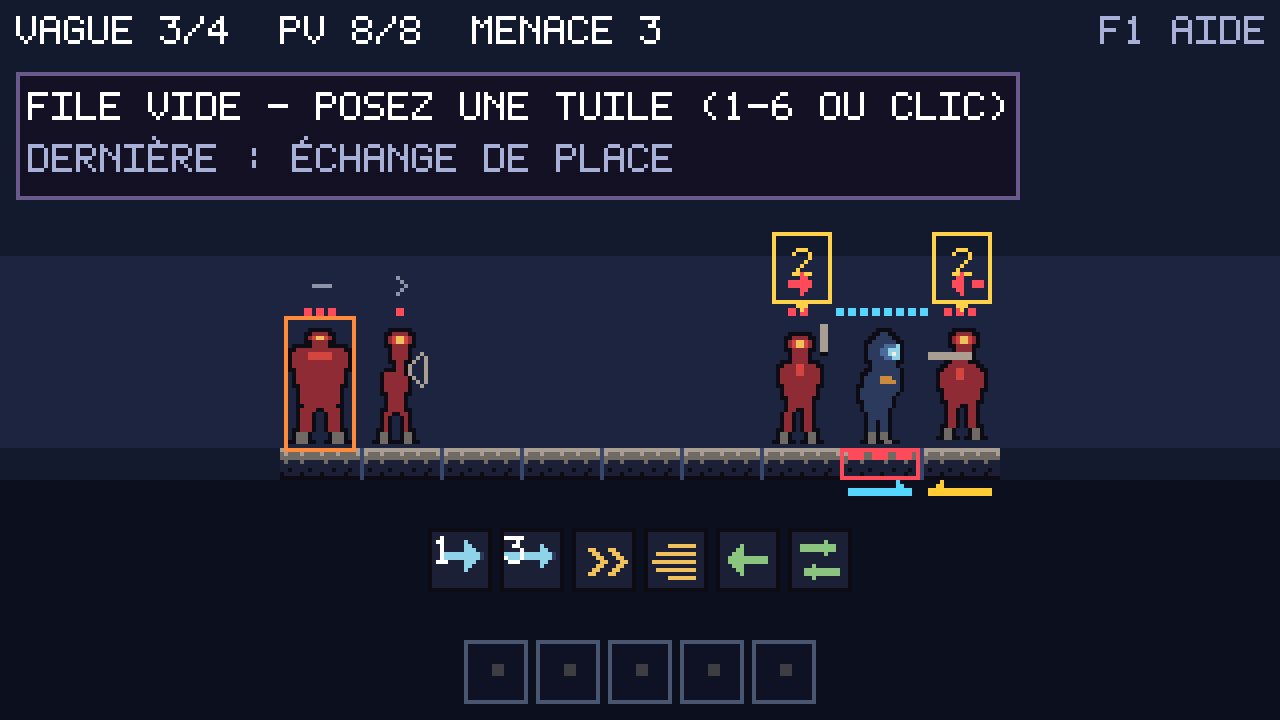
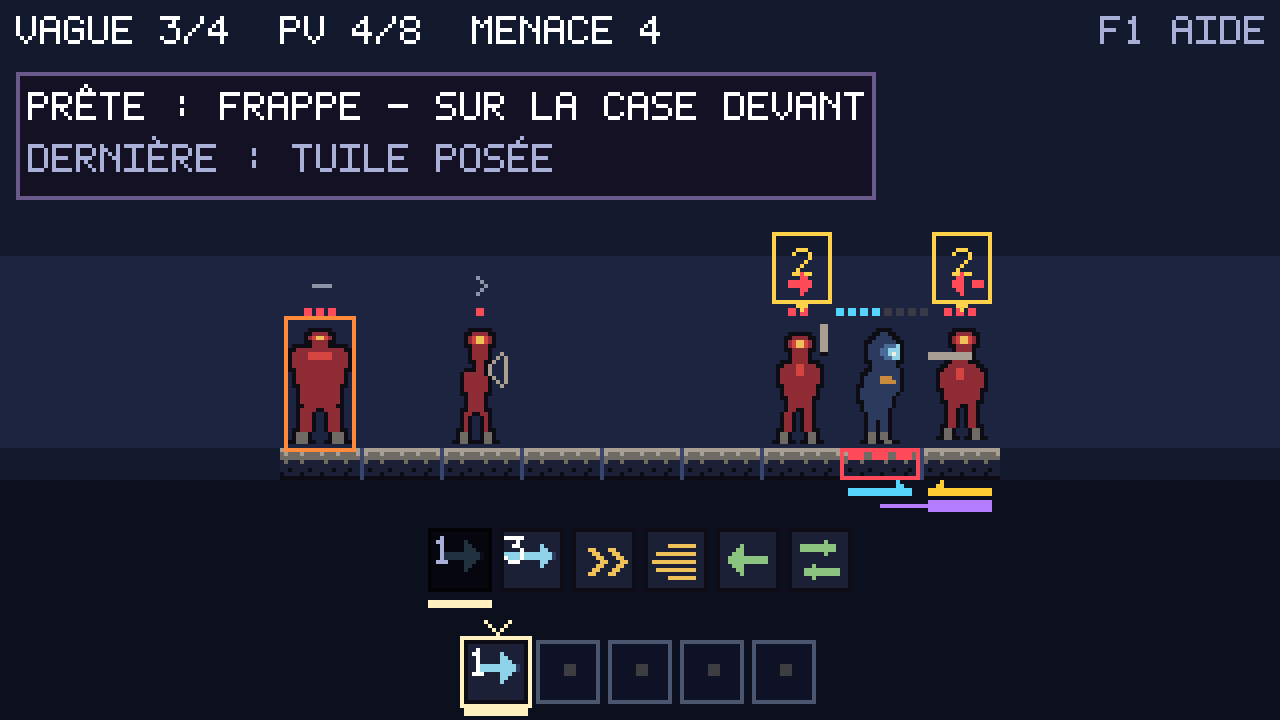
Deux nombres, deux unites, une seule question
En relisant ce que j'avais livre l'heure precedente, une contradiction : la
PLAQUE annonce des points, le BANDEAU comptait toujours des coups. Un lancier
seul affichait « 2 » sur sa plaque et « MENACE 1 » en haut de l'ecran — deux
nombres pour la meme question, dans deux unites, dont un que le joueur lit d'un
coup d'oeil pour decider s'il reste.

Le bandeau compte des points : c'est le prix qui decide, pas le nombre
d'assaillants. La planche le montre — MENACE 4 en haut, deux plaques a 2 en
bas, quatre points de vie au heros. La situation se lit d'un coup d'oeil.

LES CERCLES POSES AU SOL CONTINUENT DE COMPTER LES COUPS, et ce n'est pas une
incoherence oubliee : ils repondent a une autre question — combien de choses me
tombent dessus ici, et non combien cela me coute. Un cercle par point ferait un
halo illisible pour une seule charge. La raison est ecrite a cote du choix,
faute de quoi elle passerait pour un oubli.

Le test qui garde l'unite du bandeau assere d'abord que les deux comptes
DIFFERENT sur son montage : sans cela il serait vert avec l'ancienne version
comme avec la nouvelle. Mutation posee, elle mord.

Au passage, une coquille corrigee dans une legende du tableau de bord — « Le
carte » — que j'avais introduite en epissant cette phrase il y a une heure.

545 tests verts, 106 planches sur 15 ecrans.

diff --git a/progress.html b/progress.html
@@ -91,7 +91,7 @@
 <header>
   <h1>STARFALL</h1>
   <div class="sub">Tactique 2D au tour par tour · grille linéaire · file d'actions · libGDX / Java</div>
-  <div class="stamp">Dernière mise à jour : 6 août 2026 — <b style="color:var(--gold)">M1 à M10 revus et corrigés · 544 tests verts · 106 planches sur 15 &eacute;crans · la tranche est gagnable</b></div>
+  <div class="stamp">Dernière mise à jour : 6 août 2026 — <b style="color:var(--gold)">M1 à M10 revus et corrigés · 545 tests verts · 106 planches sur 15 &eacute;crans · la tranche est gagnable</b></div>
 </header>
 
 <div class="banner warn">
@@ -347,7 +347,7 @@
 
 <figure class="sheet">
   <img src="captures/actuel/plaques.png" alt="Starfall, deux plaques d&rsquo;intention dor&eacute;es">
-  <figcaption><b>Deux coups partent &agrave; la fin de ce tour, des deux c&ocirc;t&eacute;s.</b> Chaque ennemi qui a quelque chose &agrave; annoncer porte une <b>plaque</b> au-dessus de la t&ecirc;te, avec une pointe vers son propri&eacute;taire : sur une ligne serr&eacute;e, il ne faut pas avoir &agrave; deviner &agrave; qui appartient un glyphe. Le carte porte <b>2</b> : c&rsquo;est ce que chacun retire, total d&rsquo;une frappe compris. Le cadre est <b>dor&eacute;</b> parce que ces deux-l&agrave; jouent &agrave; la phase qui vient ; il serait rouge pour une menace annonc&eacute;e qui ne tombe pas encore. Les deux ennemis de gauche avancent seulement : pas de plaque, parce qu&rsquo;encadrer &laquo; rien &raquo; ajoute du bruit l&agrave; o&ugrave; il n&rsquo;y a pas de d&eacute;cision.</figcaption>
+  <figcaption><b>Deux coups partent &agrave; la fin de ce tour, des deux c&ocirc;t&eacute;s.</b> Chaque ennemi qui a quelque chose &agrave; annoncer porte une <b>plaque</b> au-dessus de la t&ecirc;te, avec une pointe vers son propri&eacute;taire : sur une ligne serr&eacute;e, il ne faut pas avoir &agrave; deviner &agrave; qui appartient un glyphe. La carte porte <b>2</b> : c&rsquo;est ce que chacun retire, total d&rsquo;une frappe compris &mdash; et le bandeau annonce <b>MENACE 4</b>, leur somme, dans la m&ecirc;me unit&eacute;. Le h&eacute;ros a quatre points : la situation se lit d&rsquo;un coup d&rsquo;&oelig;il. Le cadre est <b>dor&eacute;</b> parce que ces deux-l&agrave; jouent &agrave; la phase qui vient ; il serait rouge pour une menace annonc&eacute;e qui ne tombe pas encore. Les deux ennemis de gauche avancent seulement : pas de plaque, parce qu&rsquo;encadrer &laquo; rien &raquo; ajoute du bruit l&agrave; o&ugrave; il n&rsquo;y a pas de d&eacute;cision.</figcaption>
 </figure>
 
 <figure class="sheet">
@@ -356,6 +356,16 @@
 </figure>
 
 <h2>Journal de review</h2>
+
+<div class="rev pass">
+  <div class="hd">Contr&ocirc;le p&eacute;riodique &mdash; <b>Deux nombres, deux unit&eacute;s, une seule question</b></div>
+  <p>D&eacute;p&ocirc;t propre, 544 tests verts, 106 planches conformes. En relisant ce que j&rsquo;avais livr&eacute; l&rsquo;heure pr&eacute;c&eacute;dente, une contradiction : la <b>plaque</b> annonce d&eacute;sormais des points, le <b>bandeau</b> comptait toujours des coups. Un lancier seul affichait <code>2</code> sur sa plaque et <code>MENACE 1</code> en haut de l&rsquo;&eacute;cran &mdash; deux nombres pour la m&ecirc;me question, dans deux unit&eacute;s, dont un que le joueur lit d&rsquo;un coup d&rsquo;&oelig;il pour d&eacute;cider s&rsquo;il reste.</p>
+
+  <p>Le bandeau compte des <b>points</b> : c&rsquo;est le prix qui d&eacute;cide, pas le nombre d&rsquo;assaillants. La planche le montre &mdash; <code>MENACE 4</code> en haut, deux plaques &agrave; <code>2</code> en bas, quatre points de vie au h&eacute;ros.</p>
+
+  <p style="margin-bottom:0"><b>Les cercles pos&eacute;s au sol continuent de compter les coups</b>, et ce n&rsquo;est pas une incoh&eacute;rence oubli&eacute;e : ils r&eacute;pondent &agrave; une autre question &mdash; <i>combien de choses me tombent dessus ici</i>, et non <i>combien cela me co&ucirc;te</i>. Un cercle par point ferait un halo illisible pour une seule charge. La raison est &eacute;crite &agrave; c&ocirc;t&eacute; du choix, faute de quoi elle passerait pour un oubli. Le test qui garde l&rsquo;unit&eacute; du bandeau ass&egrave;re d&rsquo;abord que les deux comptes <b>diff&egrave;rent</b> sur son montage : sans cela il serait vert avec l&rsquo;ancienne version comme avec la nouvelle. Au passage, une coquille corrig&eacute;e dans la l&eacute;gende ci-dessus &mdash; &laquo; Le carte &raquo; &mdash; introduite en &eacute;pissant cette m&ecirc;me phrase il y a une heure.</p>
+</div>
+
 
 <div class="rev pass">
   <div class="hd">Contr&ocirc;le p&eacute;riodique &mdash; <b>Le t&eacute;l&eacute;graphe n&rsquo;&eacute;tait plus gard&eacute; qu&rsquo;&agrave; moiti&eacute;</b></div>

diff --git a/core/src/test/java/com/starfall/game/ImminenceTest.java b/core/src/test/java/com/starfall/game/ImminenceTest.java
@@ -3,6 +3,8 @@ package com.starfall.game;
 import static org.junit.jupiter.api.Assertions.assertFalse;
 import static org.junit.jupiter.api.Assertions.assertTrue;
 
+import com.starfall.scene.HudText;
+
 import org.junit.jupiter.api.DisplayName;
 import org.junit.jupiter.api.Test;
 
@@ -69,5 +71,39 @@ class ImminenceTest {
                 "un ennemi etourdi saute son activation : son intention reste affichee, mais elle"
                         + " ne tombe pas ce tour-ci, et confondre les deux fait lire un danger"
                         + " immediat la ou il y a un tour de repit");
+    }
+
+    /**
+     * Le bandeau annonce ce que le h&eacute;ros perd, pas combien d'ennemis frappent.
+     *
+     * <p>La plaque pos&eacute;e au-dessus d'un ennemi annonce son prix en points. Le bandeau, lui,
+     * comptait les <em>coups</em> : un lancier seul affichait « 2 » sur sa plaque et « MENACE 1 »
+     * en haut de l'&eacute;cran. Deux nombres pour la m&ecirc;me question, dans deux unit&eacute;s,
+     * dont un que le joueur lit d'un coup d'&oelig;il pour d&eacute;cider s'il reste.
+     *
+     * <p>Ce test ne vaut que parce que les deux comptes <b>diff&egrave;rent</b> sur le montage
+     * choisi : la pr&eacute;misse est ass&eacute;r&eacute;e, faute de quoi il serait vert avec
+     * l'ancienne version comme avec la nouvelle.
+     */
+    @Test
+    @DisplayName("Le bandeau annonce des points, pas un nombre d'assaillants")
+    void theBannerAnnouncesPointsRatherThanAttackers() {
+        Arena arena = new Arena(11, 4);
+        arena.grid().place(5, new Enemy(EnemyKind.LANCIER));
+        arena.announceIntentions();
+
+        int blows = arena.threatCount(arena.heroCell());
+        int points = arena.threatDamage(arena.heroCell());
+
+        // La premisse : sur un montage ou les deux comptes coincident, ce test passerait quelle
+        // que soit l'unite choisie, et ne distinguerait donc rien.
+        assertTrue(points > blows,
+                "montage invalide : " + blows + " coup(s) pour " + points + " point(s), les deux"
+                        + " comptes coincident et ce test ne departage plus les deux unites");
+
+        String banner = HudText.banner(arena, true);
+        assertTrue(banner.contains("MENACE " + points),
+                "le bandeau dit « " + banner + " » : il devrait annoncer " + points + " points,"
+                        + " le prix de ce qui vient, et non " + blows + " assaillant(s)");
     }
 }

diff --git a/core/src/main/java/com/starfall/scene/HudText.java b/core/src/main/java/com/starfall/scene/HudText.java
@@ -110,7 +110,16 @@ public final class HudText {
                 .append("  PV ").append(arena.hero().health()).append('/').append(Hero.MAX_HEALTH);
         // Rien à annoncer quand plus rien ne sera joué : « MENACE 2 » s'affichait au-dessus de
         // « PARTIE PERDUE ».
-        int threat = arena.isOver() || !settled ? 0 : arena.threatCount(arena.heroCell());
+        // DES POINTS, et non des coups. La plaque pos&eacute;e au-dessus de chaque ennemi annonce
+        // ce qu'il retire ; ce bandeau annon&ccedil;ait combien d'ennemis frappent. Un lancier
+        // seul affichait donc « 2 » sur sa plaque et « MENACE 1 » ici : deux nombres sur le meme
+        // ecran pour la meme question, dans deux unites, dont un que le joueur lit d'un coup
+        // d'oeil pour decider s'il reste. C'est le prix qui decide, pas le nombre d'assaillants.
+        //
+        // Les cercles poses AU SOL, eux, comptent toujours les coups, et c'est une autre question :
+        // « combien de choses me tombent dessus ici », pas « combien cela me coute ». Un cercle par
+        // point ferait un halo illisible pour une seule charge.
+        int threat = arena.isOver() || !settled ? 0 : arena.threatDamage(arena.heroCell());
         if (threat > 0) {
             line.append("  MENACE ").append(threat);
         }
